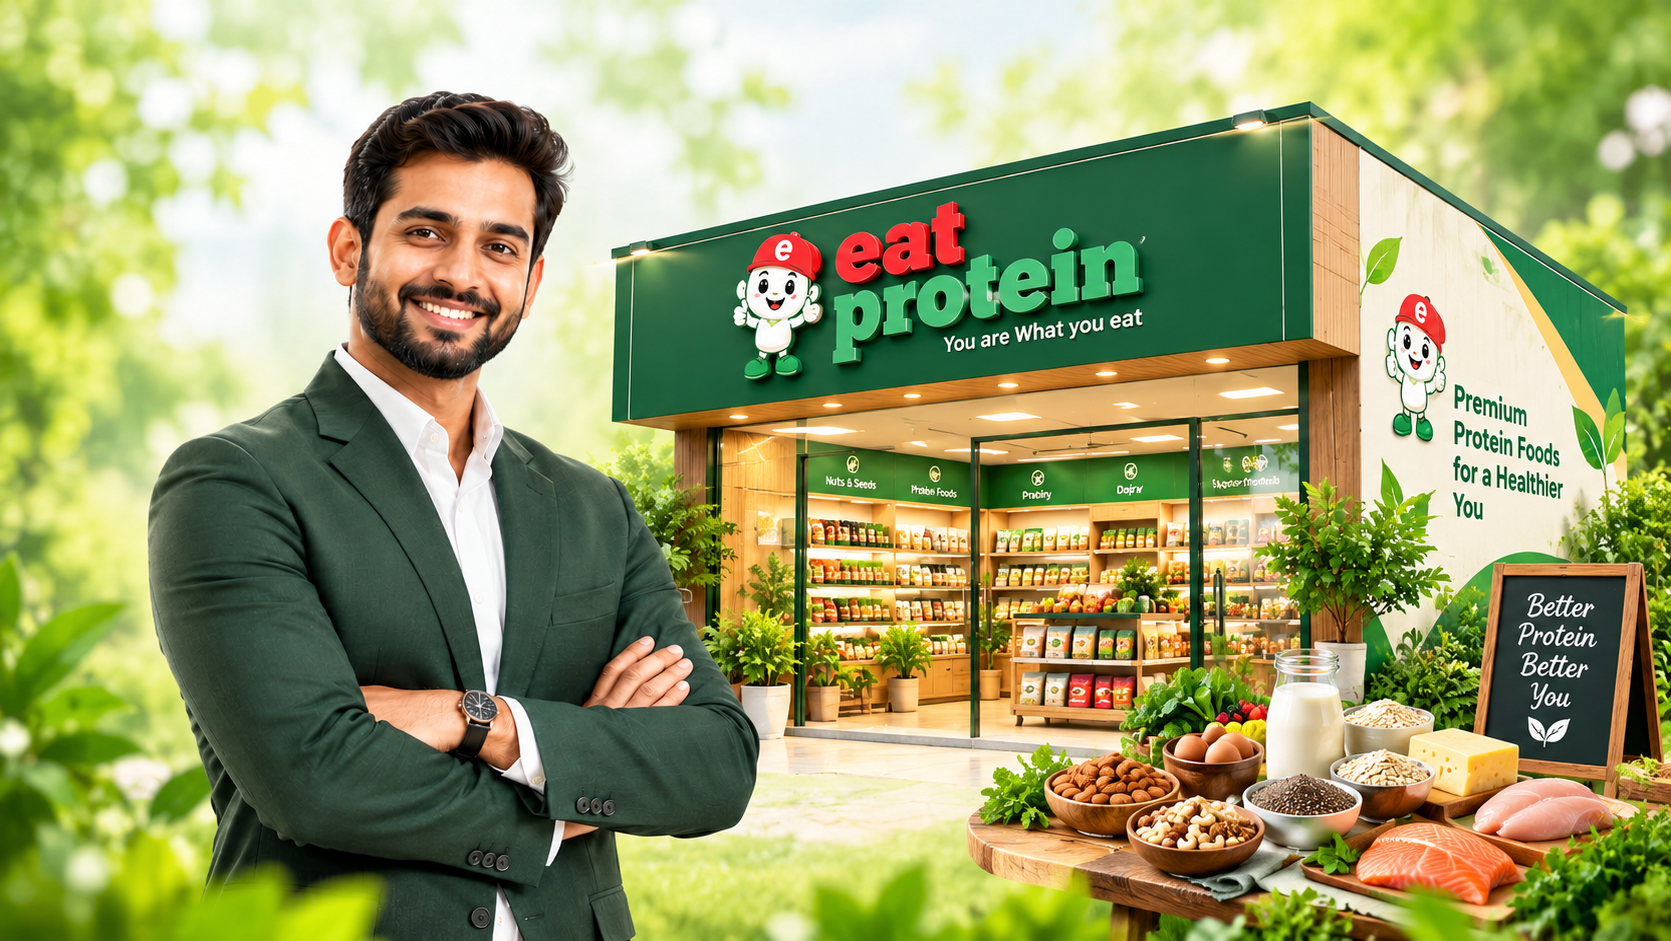
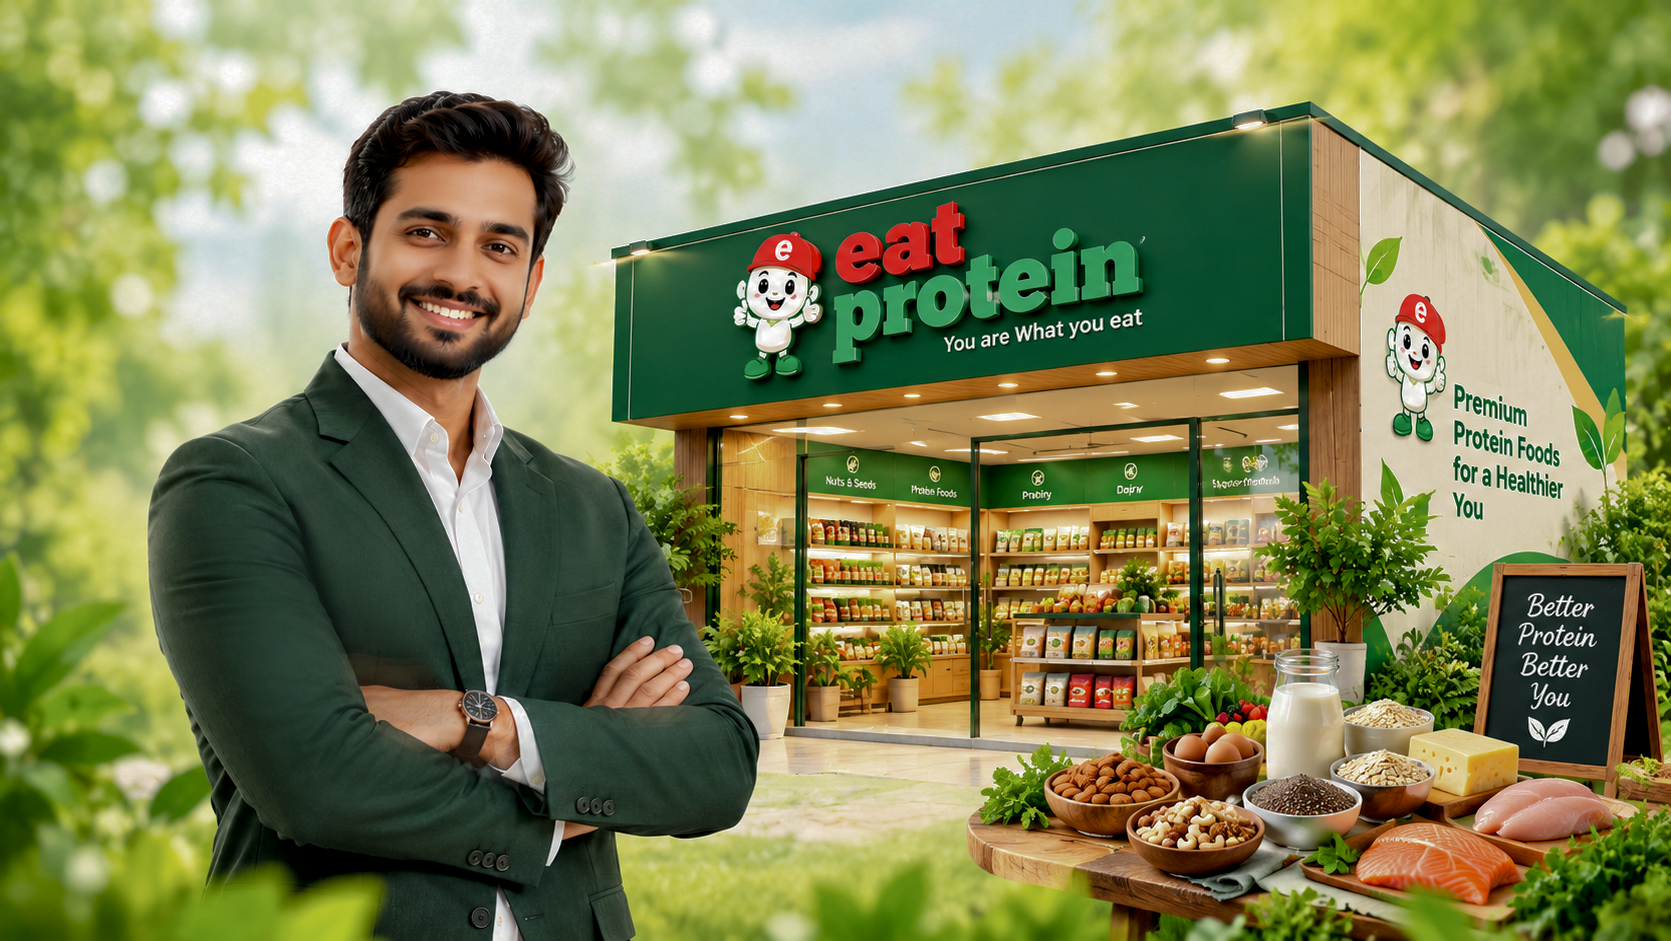
update

diff --git a/src/components/ProteinPacks.jsx b/src/components/ProteinPacks.jsx
@@ -1377,67 +1377,49 @@ export default function ProteinPacks() {
                       </p>
 
                       {/* Features */}
-                      <ul className="mt-3 w-full space-y-2">
+<ul className="mt-3 mb-5 w-full space-y-2">
+  {pack.features.map((feature, featureIndex) => (
+    <motion.li
+      key={feature}
+      initial={{ opacity: 0, x: -12 }}
+      whileInView={{ opacity: 1, x: 0 }}
+      viewport={{ once: true }}
+      transition={{
+        duration: 0.4,
+        delay: 0.25 + featureIndex * 0.08,
+      }}
+      className="flex min-w-0 items-start gap-1.5 text-[10px] leading-4 text-[#40594d] min-[375px]:gap-2 min-[375px]:text-[11px] sm:text-xs"
+    >
+      <span className="mt-0.5 flex h-4 w-4 shrink-0 items-center justify-center rounded-full bg-[#168b57] sm:h-[19px] sm:w-[19px]">
+        <CheckCircle2
+          size={12}
+          className="text-white"
+          strokeWidth={2.5}
+        />
+      </span>
 
-                        {pack.features.map((feature, featureIndex) => (
+      <span className="min-w-0 break-words">{feature}</span>
+    </motion.li>
+  ))}
+</ul>
 
-                          <motion.li
-                            key={feature}
-                            initial={{
-                              opacity: 0,
-                              x: -12,
-                            }}
-                            whileInView={{
-                              opacity: 1,
-                              x: 0,
-                            }}
-                            viewport={{ once: true }}
-                            transition={{
-                              duration: 0.4,
-                              delay: 0.25 + featureIndex * 0.08,
-                            }}
-                            className="flex min-w-0 items-start gap-1.5 text-[10px] leading-4 text-[#40594d] min-[375px]:gap-2 min-[375px]:text-[11px] sm:text-xs"
-                          >
-
-                            <span className="mt-0.5 flex h-4 w-4 shrink-0 items-center justify-center rounded-full bg-[#168b57] sm:h-[19px] sm:w-[19px]">
-
-                              <CheckCircle2
-                                size={12}
-                                className="text-white"
-                                strokeWidth={2.5}
-                              />
-
-                            </span>
-
-                            <span className="min-w-0 break-words">
-                              {feature}
-                            </span>
-
-                          </motion.li>
-
-                        ))}
-
-                      </ul>
-
-                      {/* CTA Button */}
-                      <motion.button
-                        type="button"
-                        onClick={() => handleViewPack(pack)}
-                        whileHover={{
-                          scale: 1.04,
-                          boxShadow: "0 6px 16px rgba(8,125,61,0.2)",
-                        }}
-                        whileTap={{ scale: 0.96 }}
-                        transition={{ duration: 0.2 }}
-                        className="mt-auto inline-flex min-h-8 max-w-full items-center justify-center gap-1.5 rounded-full bg-[#07864d] px-3 py-2 mt-4 text-[10px] font-bold text-white shadow-sm transition-colors duration-200 hover:bg-[#066c3d] min-[375px]:gap-2 min-[375px]:px-4 min-[375px]:text-[11px] sm:min-h-10 sm:px-5 sm:text-xs"
-                      >
-                        <span className="truncate">
-                          {pack.buttonLabel || "View in App"}
-                        </span>
-
-                        <ArrowRight size={14} className="shrink-0" />
-                      </motion.button>
-
+{/* CTA Button */}
+<motion.button
+  type="button"
+  onClick={() => handleViewPack(pack)}
+  whileHover={{
+    scale: 1.04,
+    boxShadow: "0 6px 16px rgba(8,125,61,0.2)",
+  }}
+  whileTap={{ scale: 0.96 }}
+  transition={{ duration: 0.2 }}
+  className="mt-auto inline-flex min-h-8 max-w-full items-center justify-center gap-1.5 rounded-full bg-[#07864d] px-3 py-2 text-[10px] font-bold text-white shadow-sm transition-colors duration-200 hover:bg-[#066c3d] min-[375px]:gap-2 min-[375px]:px-4 min-[375px]:text-[11px] sm:min-h-10 sm:px-5 sm:text-xs"
+>
+  <span className="truncate">
+    {pack.buttonLabel || "View in App"}
+  </span>
+  <ArrowRight size={14} className="shrink-0" />
+</motion.button>
                     </div>
 
                     {/* RIGHT CURVED FOOD IMAGE */}

diff --git a/src/pages/Franchise.jsx b/src/pages/Franchise.jsx
@@ -1270,7 +1270,7 @@ export default function Franchise() {
             <div className="absolute inset-8 rounded-full bg-green-200/40 blur-3xl" />
 
             <img
-              src="/assets/franchise-hero-reference.png"
+              src="/assets/franchise-hero-reference (2).png"
               alt="EatProtein area partnership and local food store illustration"
               className="relative z-10 mx-auto aspect-[3/2] w-full rounded-2xl object-cover object-center sm:rounded-3xl"
             />

diff --git a/src/pages/Store.jsx b/src/pages/Store.jsx
@@ -2249,6 +2249,8 @@ import {
 
 import { getFranchiseOwners } from "../api/franchiseOwnerApi";
 
+import AnimatedHeading from "../components/AnimatedHeading";
+
 /* =========================================
    STORE PARTNER DATA
 ========================================= */
